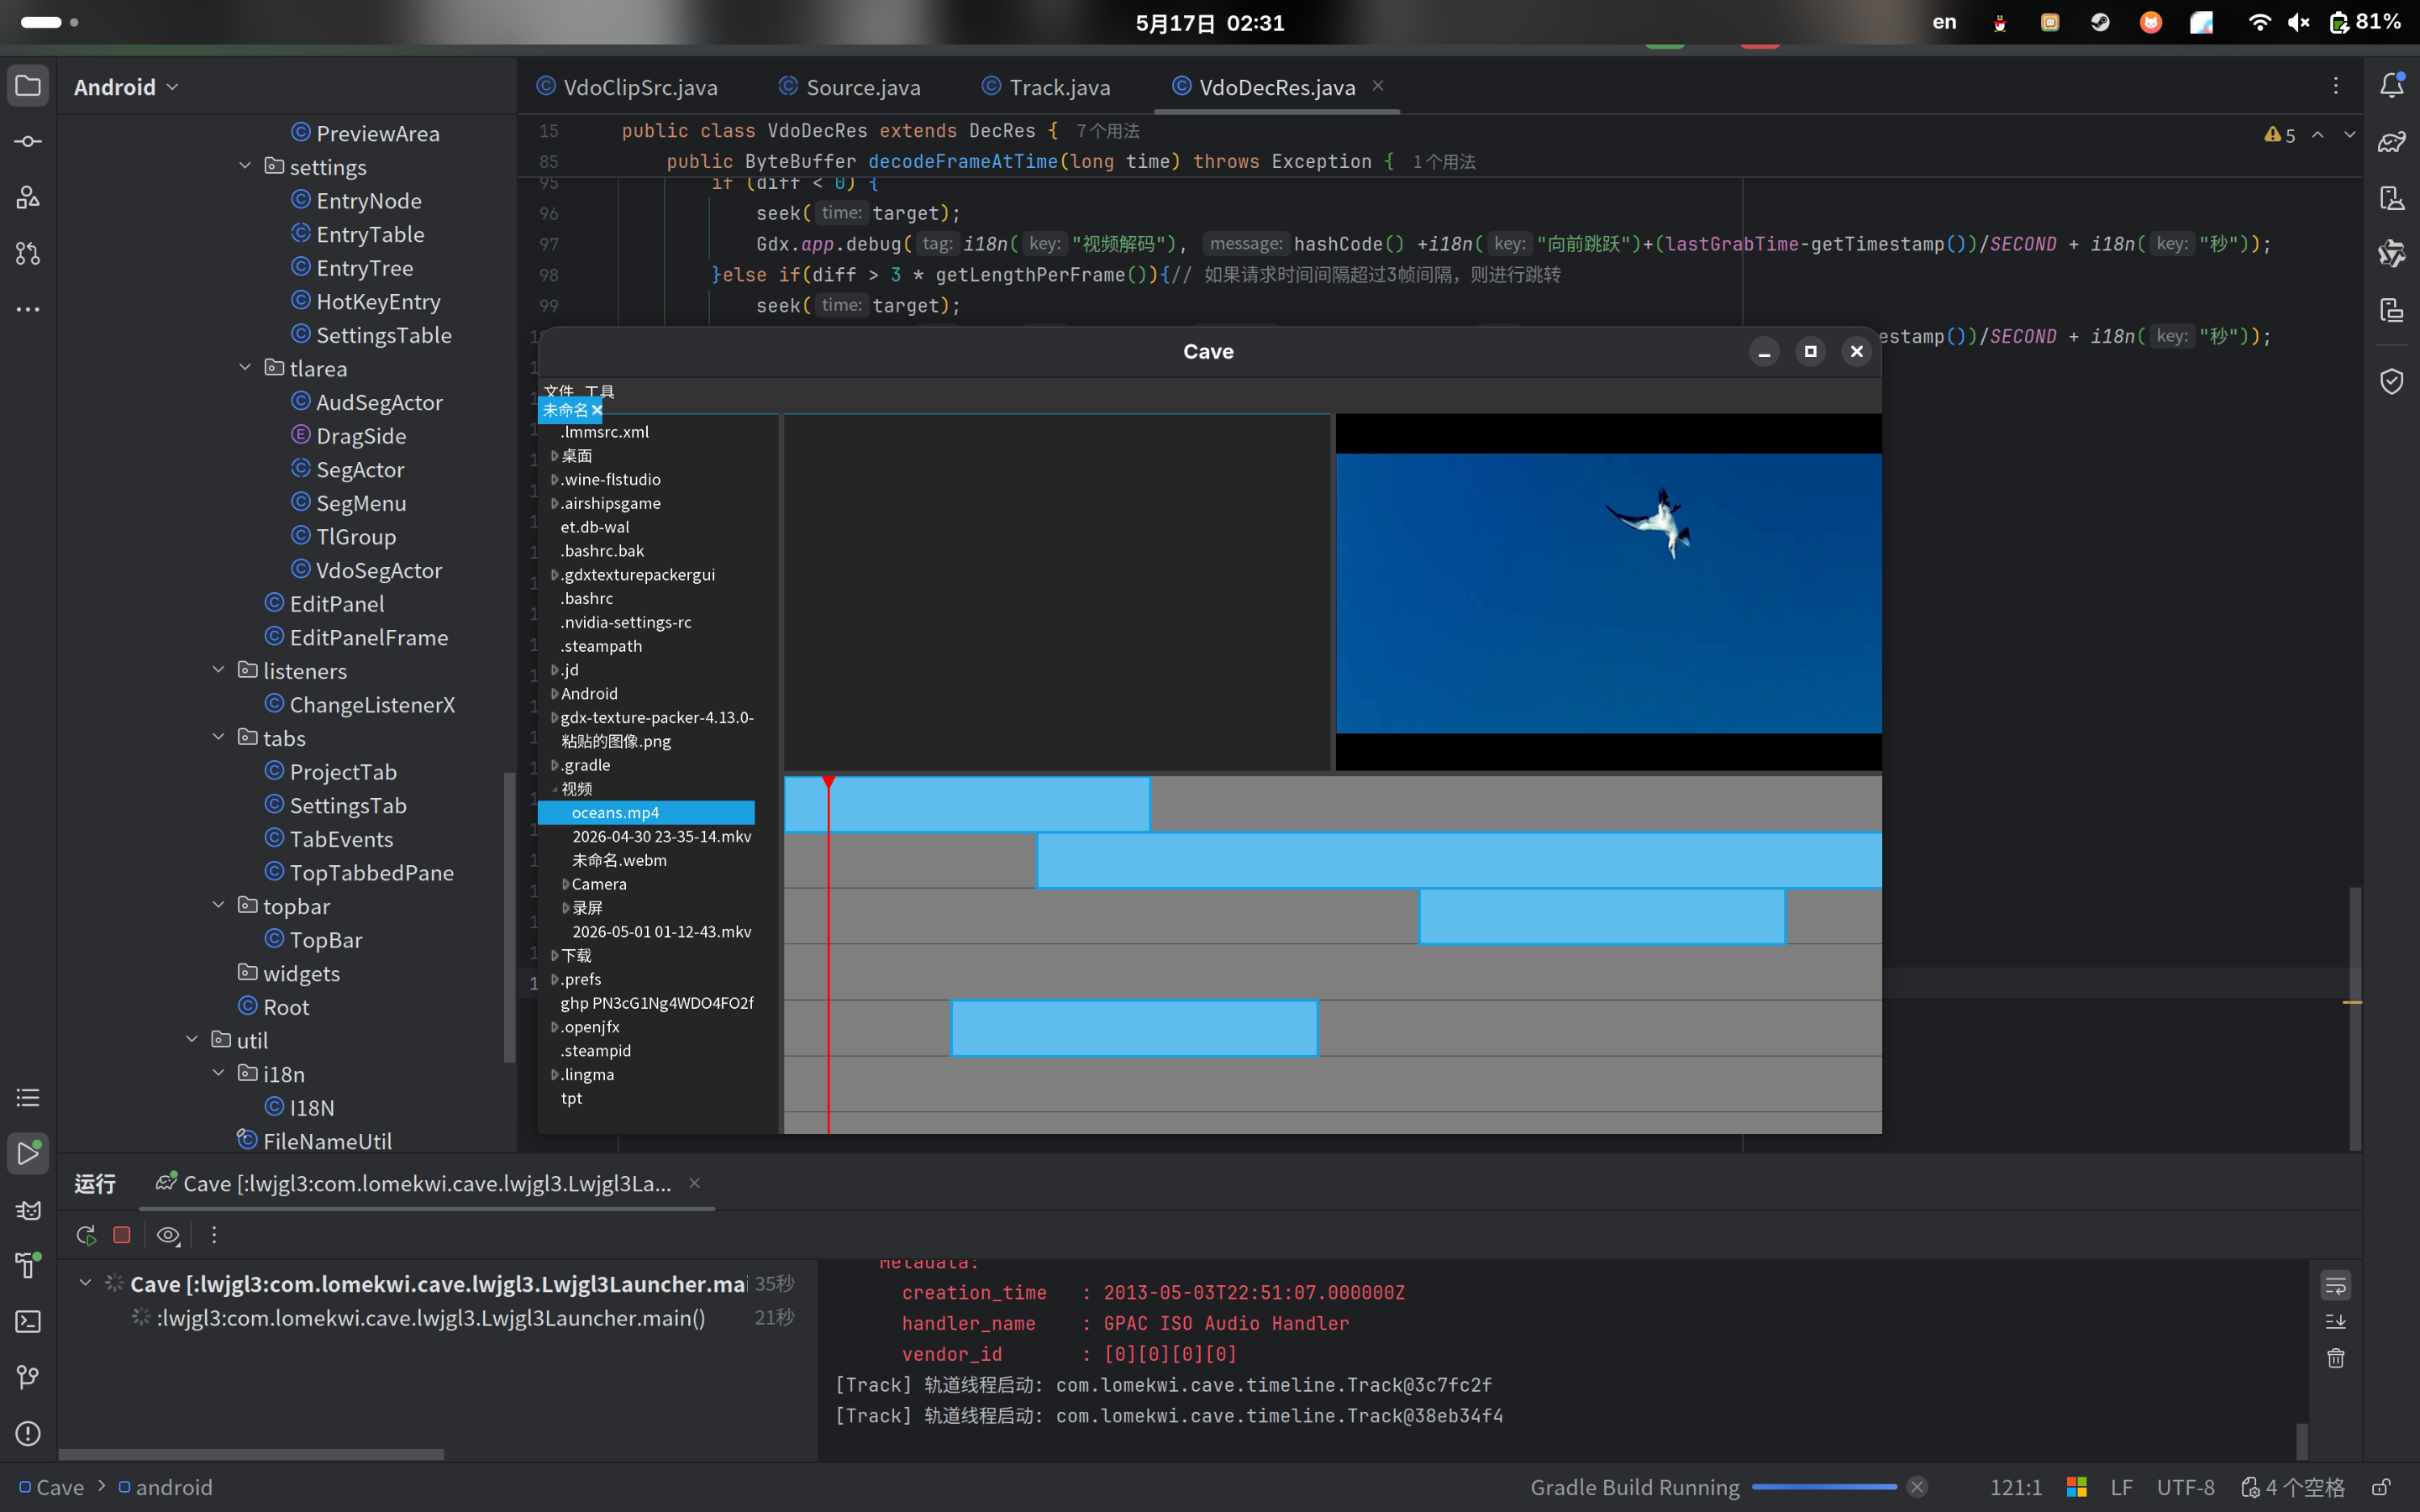
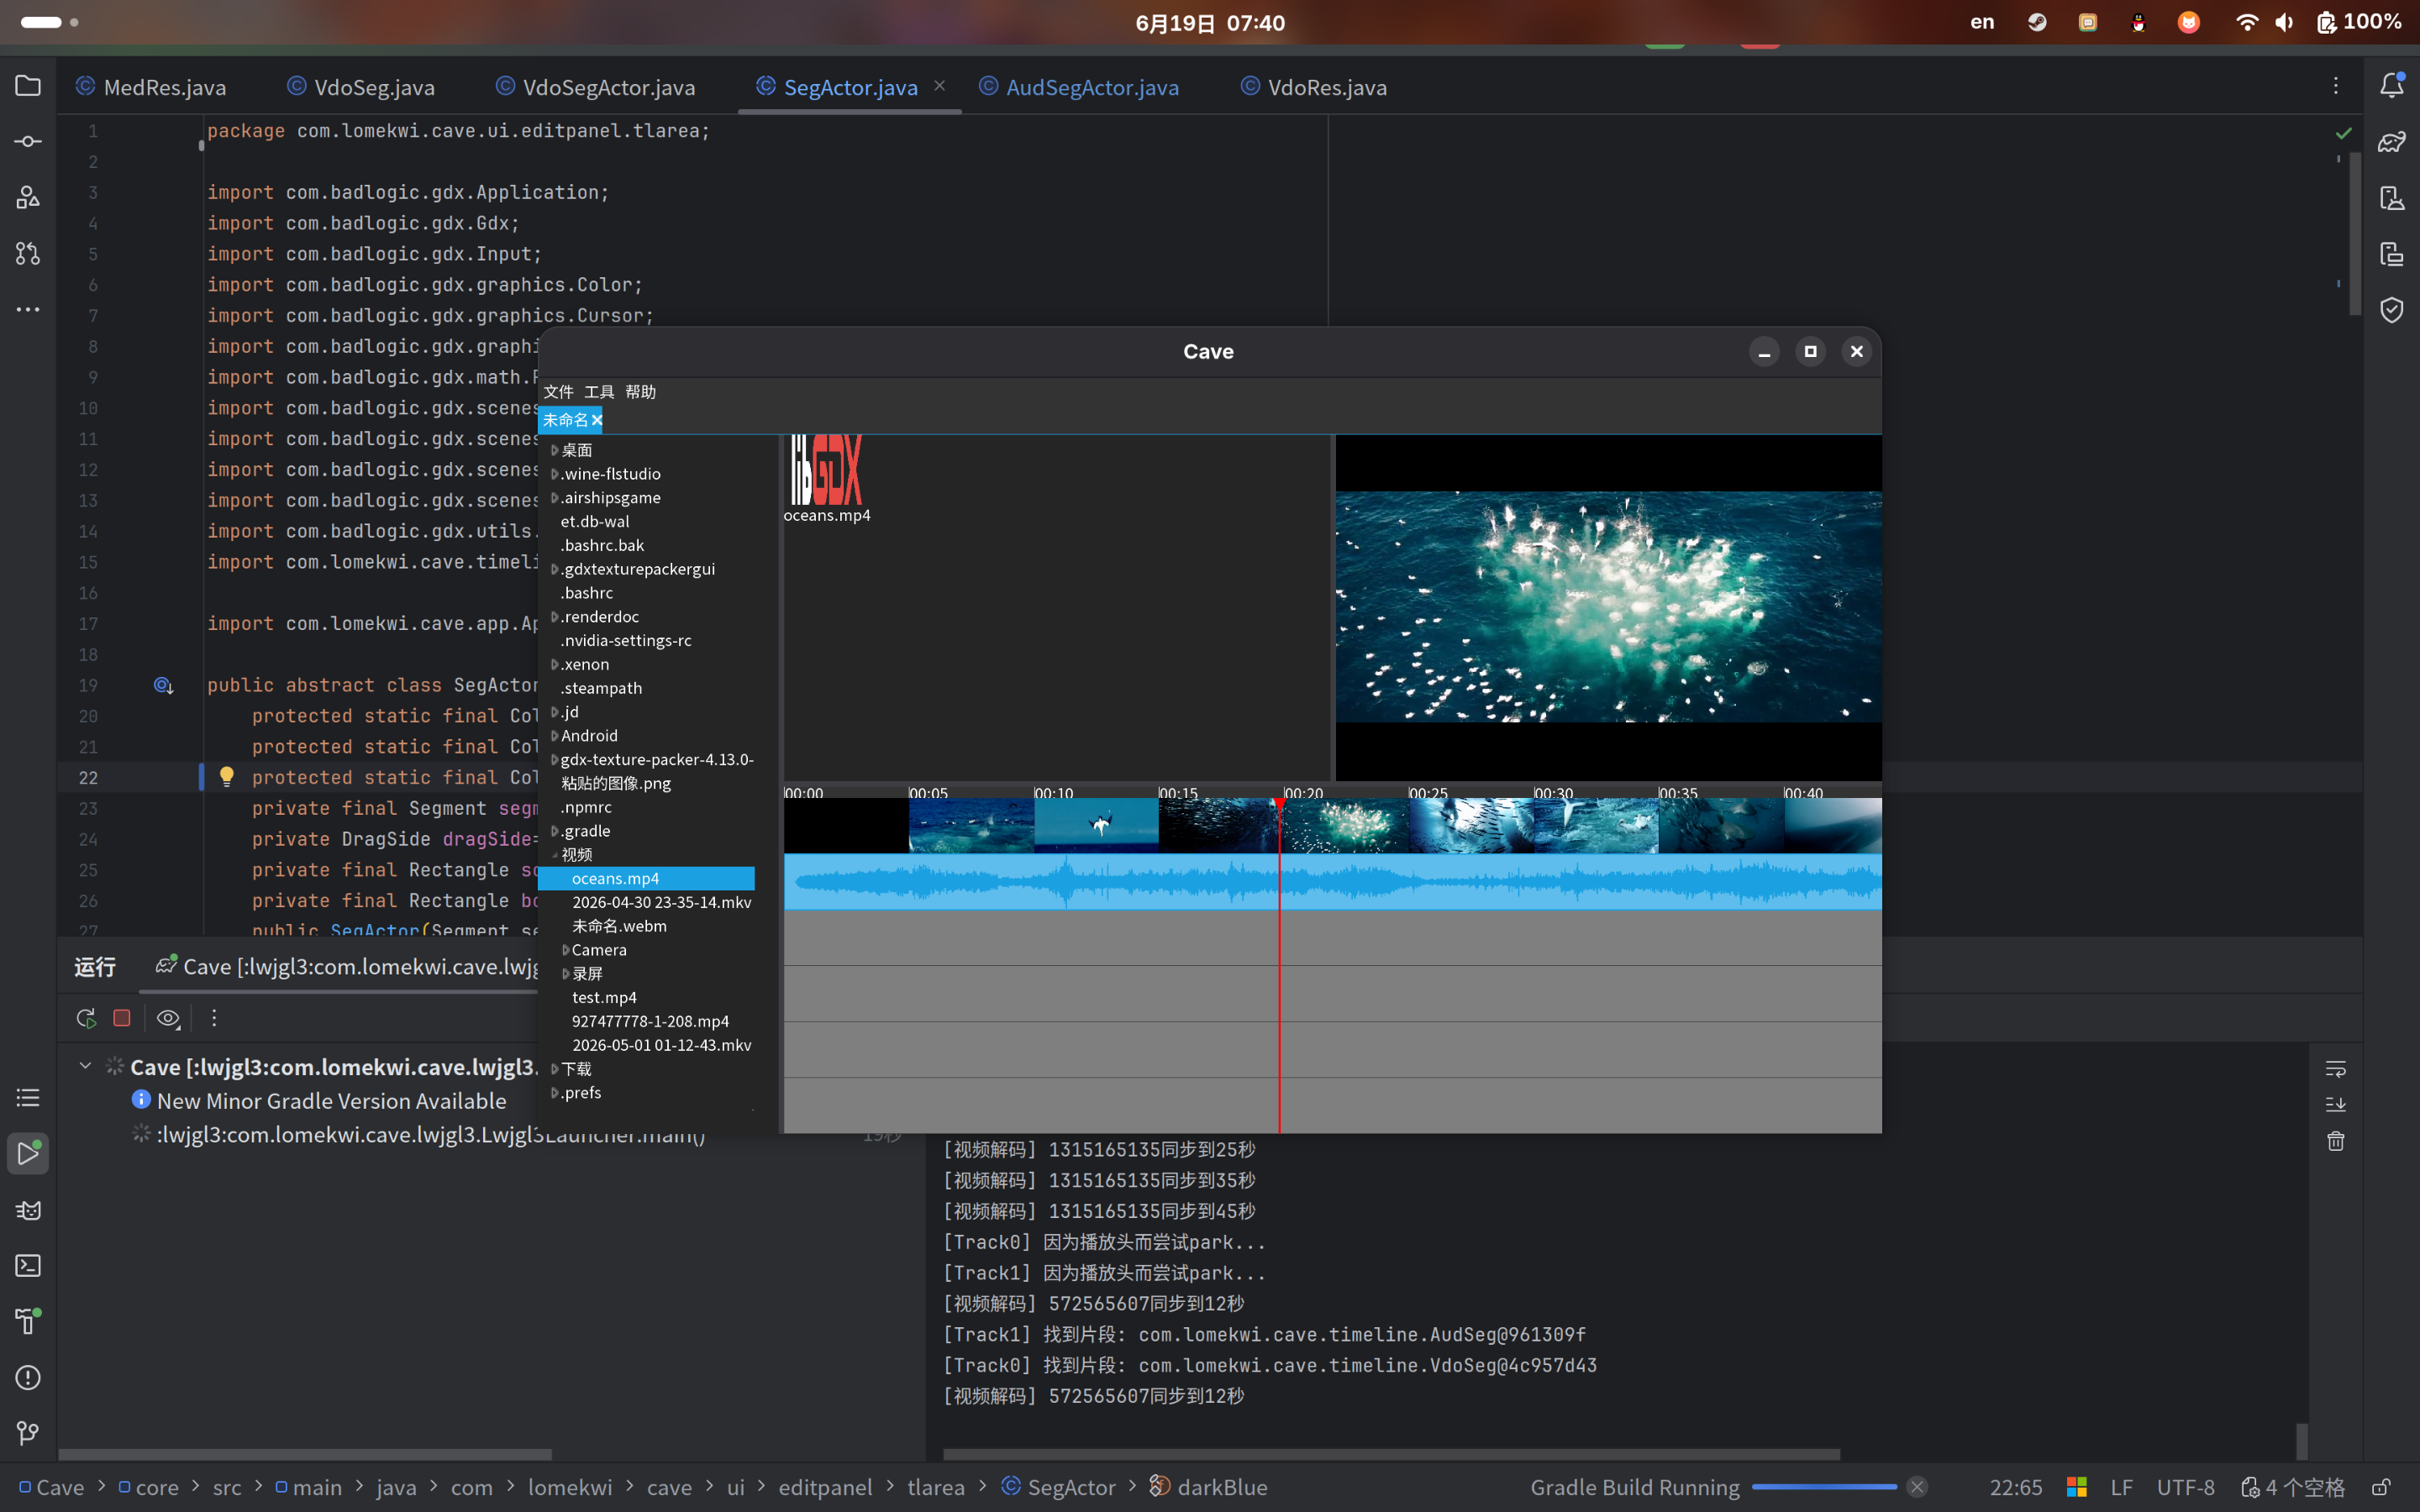
更新屏幕截图

diff --git a/core/src/main/java/com/lomekwi/cave/ui/editpanel/tlarea/SegActor.java b/core/src/main/java/com/lomekwi/cave/ui/editpanel/tlarea/SegActor.java
@@ -1,7 +1,5 @@
 package com.lomekwi.cave.ui.editpanel.tlarea;
 
-import static org.bytedeco.librealsense.global.RealSense.camera;
-
 import com.badlogic.gdx.Application;
 import com.badlogic.gdx.Gdx;
 import com.badlogic.gdx.Input;
@@ -21,7 +19,7 @@ import com.lomekwi.cave.app.App;
 public abstract class SegActor extends Actor {
     protected static final Color blue = new Color(0x1ba1e2ff);
     protected static final Color lightBlue = new Color(0x5ebdecff);
-    protected static final Color waveColor = new Color(0x1ba1e2cc);
+    protected static final Color darkBlue = new Color(0x1ba1e2ff);
     private final Segment segment;
     private DragSide dragSide=DragSide.NONE;
     private final Rectangle scissors = new Rectangle();

diff --git a/core/src/main/java/com/lomekwi/cave/ui/editpanel/tlarea/AudSegActor.java b/core/src/main/java/com/lomekwi/cave/ui/editpanel/tlarea/AudSegActor.java
@@ -49,7 +49,7 @@ public class AudSegActor extends SegActor {
 
                 float barH = maxPeak * halfH;
                 float pxX = getX() + px;
-                sd.line(pxX, centerY - barH, pxX, centerY + barH, waveColor, 1);
+                sd.line(pxX, centerY - barH, pxX, centerY + barH, darkBlue, 1);
             }
         }
     }